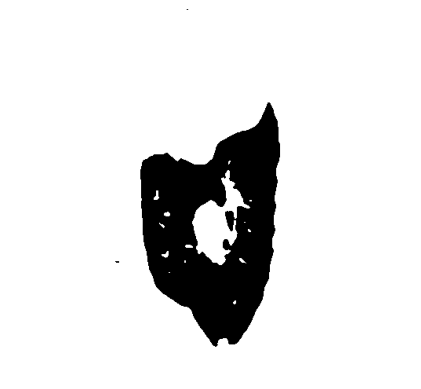
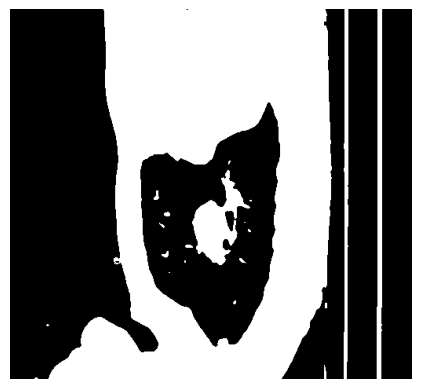
table opening

diff --git a/README.md b/README.md
@@ -106,7 +106,7 @@ def createMaskFrom(self,SagittalSlice):
     <th style="width: 20%;">Implementation</th>
   </tr>
   <tr>
-    <td style="width: 33.33%;"><img src="./visualization/denoisedSagittalSlice.png"></td>
+    <td style="width: 33.33%;"><img src="./visualization/denoisedFullSagittalSlice.png"></td>
     <td style="width: 33.33%;"><img src="./visualization/binarizedSagittalSlice.png"">
     <td style="width: 33.33%;">
       <pre lang="python"><code> 
@@ -115,6 +115,29 @@ def binarize(sagittalSlice):
 	    	thresh=sagittalSlice.max()-1, maxval=1,
 	    	type=cv2.THRESH_BINARY)
 	return binarizedSlice.astype("uint8")
+      </code></pre>
+    </td>
+  </tr>
+</table>
+
+5. Thex next goal is to make everything that is not lung tissue white. In order to accomplish this, we will flood the image from the left and right. We could also flood it from the top and bottom, but in case the lung is touching the border, it will flood it to0. However, a problem remains. When flooding from the right, it is impossible to flow through the table. So we need to break the table first. We do that on the top row of the image only. We use morphological opening to open the table. The structuring element is a line. The line needs to be longer than the table width. The result idea is displayed below.
+
+<table style="width: 100%;">
+  <tr>
+    <th style="width: 40%;">Input</th>
+    <th style="width: 40%;">Output</th>
+    <th style="width: 20%;">Implementation</th>
+  </tr>
+  <tr>
+    <td style="width: 33.33%;"><img src="./visualization/tableClosed.png"></td>
+    <td style="width: 33.33%;"><img src="./visualization/tableOpen.png"">
+    <td style="width: 33.33%;">
+      <pre lang="python"><code> 
+def openTableOf(binarizedSagittalSlice):
+  kernel = cv2.getStructuringElement(shape=cv2.MORPH_RECT, ksize=(25,1))
+  topRowOpen = cv2.morphologyEx(binarizedSagittalSlice[:1], cv2.MORPH_OPEN, kernel, iterations=1)
+  binarizedSagittalSlice[:1] = topRowOpen
+  return binarizedSagittalSlice)
       </code></pre>
     </td>
   </tr>
